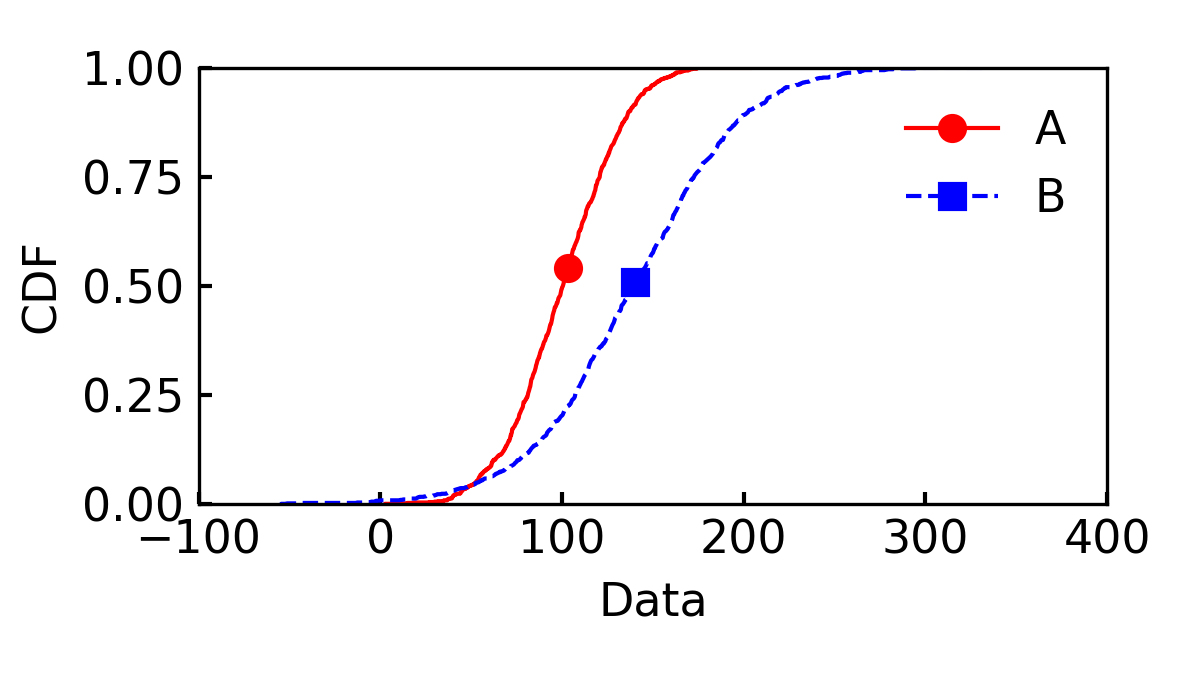
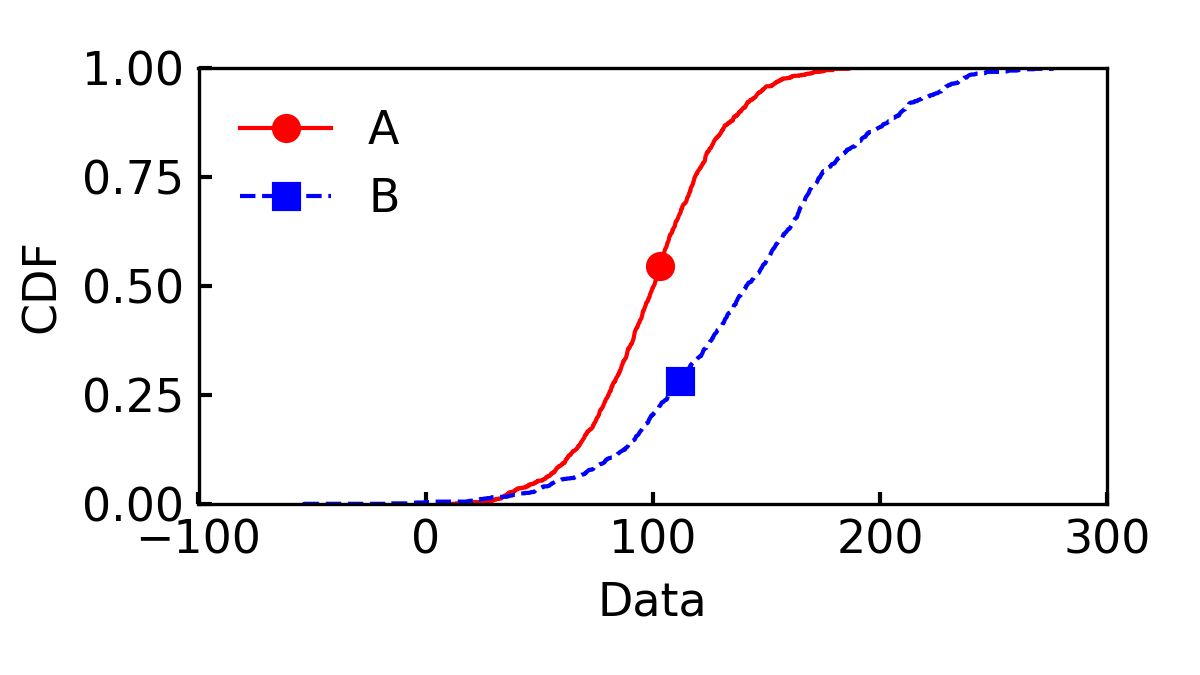
added CCDF

diff --git a/fastplot/__init__.py b/fastplot/__init__.py
@@ -38,7 +38,7 @@ def plot(data, path, mode = 'line',
          xtick_direction = 'in', xtick_width = 1, xtick_length = 3, ytick_direction = 'in', ytick_width = 1, ytick_length = 3, 
          legend = False, legend_loc = 'best', legend_ncol = 1, legend_fontsize = 'medium', legend_border = False, legend_frameon = True, legend_fancybox = False, legend_alpha=1.0, legend_args = {},
          linewidth = 1, boxplot_sym='', boxplot_whis=[5,95], timeseries_format='%Y/%m/%d', bars_width=0.6,
-         callback = None, timeseries_stacked_right_legend_order=True ):
+         callback = None, timeseries_stacked_right_legend_order=True, CDF_complementary=False ):
 
     # 1. Create and configure plot visual style
     mpl.rcParams.update(mpl.rcParamsDefault)
@@ -87,18 +87,24 @@ def plot(data, path, mode = 'line',
         e = ECDF(s)
         if xscale == 'log':
             x = np.logspace(np.log10(min(s)), np.log10(max(s)), NUM_BIN_CDF )
-            y = e(x)
+            if CDF_complementary:
+                y = 1-e(x)
+            else:
+                y = e(x)
         else:
-            x = np.linspace(min(s), max(s), NUM_BIN_CDF )
-            y = e(x)
-            # Fix initial point
-            x = np.concatenate( (np.array([min(s)]), x) )
-            y = np.concatenate( (np.array([0]), y) )
+            x = np.linspace(min(s), max(s), NUM_BIN_CDF )  
+            if CDF_complementary:
+                y = 1-e(x)
+                x = np.concatenate( (np.array([min(s)]), x) )
+                y = np.concatenate( (np.array([1]), y) )
+            else:
+                y = e(x)
+                x = np.concatenate( (np.array([min(s)]), x) )
+                y = np.concatenate( (np.array([0]), y) )
 
-        y = e(x)
         plt.plot(x,y, linewidth = linewidth, **plot_args)
         if ylabel is None:
-            ylabel = 'CDF'
+            ylabel = 'CCDF' if CDF_complementary else "CDF"
         if ylim is None:
             ylim = (0,1)
 
@@ -107,13 +113,21 @@ def plot(data, path, mode = 'line',
             e = ECDF(s)
             if xscale == 'log':
                 x = np.logspace(np.log10(min(s)), np.log10(max(s)), NUM_BIN_CDF )
-                y = e(x)
+                if CDF_complementary:
+                    y = 1-e(x)
+                else:
+                    y = e(x)
             else:
                 x = np.linspace(min(s), max(s), NUM_BIN_CDF )  
-                y = e(x)
-                # Fix initial point
-                x = np.concatenate( (np.array([min(s)]), x) )
-                y = np.concatenate( (np.array([0]), y) )
+
+                if CDF_complementary:
+                    y = 1-e(x)
+                    x = np.concatenate( (np.array([min(s)]), x) )
+                    y = np.concatenate( (np.array([1]), y) )
+                else:
+                    y = e(x)
+                    x = np.concatenate( (np.array([min(s)]), x) )
+                    y = np.concatenate( (np.array([0]), y) )
 
             plt.plot(x,y, label=s_name, linewidth = linewidth, **plot_args)
 

diff --git a/examples/plot_example.py b/examples/plot_example.py
@@ -28,6 +28,9 @@ fastplot.plot(np.random.normal(100, 30, 1000), 'examples/3_CDF.png', mode='CDF',
               xlabel = 'Data', style='latex')
 
 
+fastplot.plot(np.random.normal(100, 30, 1000), 'examples/3b_CCDF.png', mode='CDF', 
+              CDF_complementary=True, xlabel = 'Data', style='latex')
+
 
 data = [ ('A', np.random.normal(100, 30, 1000)), ('B', np.random.normal(140, 50, 1000)) ]
 plot_args={"markevery": [500]}

diff --git a/setup.py b/setup.py
@@ -22,3 +22,6 @@ setup(
 # Upload on pip with:
 # python setup.py sdist
 # twine upload dist/*
+
+# Install locally with:
+# sudo python3 setup.py install

diff --git a/README.md b/README.md
@@ -60,7 +60,7 @@ The most important arguments are:
 The modes are the type of plots fastplot allows to use. Some are simple (just a line), other are more advanced (bars, etc.).
 * `line`: plot a simple line. `data` must be a two-sized tuple of lists, for x and y. E.g., ([x1,x2,x3],[y1,y2,y3])
 * `line_multi`: plot multiple lines. Data must have the form [ (line1, ([x1,x2], [y1,y2])), (line2, ([x1,x2], [y1,y2]) ) ]. The names `line1` and `line2` are put in the legend.
-* `CDF`: plot a CDF given the samples. `data` must be a list of scalars.
+* `CDF`: plot a CDF given the samples. `data` must be a list of scalars. Note: if your CDF is too coarse grained, you can increase the resolution increasing `fastplot.NUM_BIN_CDF`.
 * `CDF_multi`: plot many CDFs given the samples. `data` must be a list of two-sized tuples like (name, [samples]). `name` is used in the legend.
 * `boxplot`: plota boxplot given the samples. `data` must be a list of two-sized tuples like (name, [samples]). `name` is used in the xticks labels.
 * `timeseries`: plot a time series. `data` must be a pandas series, with a DateTime index.
@@ -140,7 +140,7 @@ This arguments are specific for some `modes`.
 * `bars_width`: width of bars when bars are plotted. Default `0.6`
 * `callback`: function to call instead of plotting, when `mode=callback`
 * `timeseries_stacked_right_legend_order`: for `timeseries_stacked`, plot legend in the same order as colors are shown in the plot. Default is `True`.
-
+* `CDF_complementary`: for `CDF` and `CDF_multi`, plot complementary CDF instead of the plain one. Default is `False`.
 
  ## Cyclers
 
@@ -184,6 +184,15 @@ fastplot.plot(np.random.normal(100, 30, 1000), 'examples/3_CDF.png', mode='CDF',
               xlabel = 'Data', style='latex')
 ```
 <img src="https://github.com/marty90/fastplot/raw/master/examples/3_CDF.png"  height="200">
+
+
+**CDF complementary**
+```
+fastplot.plot(np.random.normal(100, 30, 1000), 'examples/3b_CCDF.png', mode='CDF', 
+              CDF_complementary=True, xlabel = 'Data', style='latex')
+```
+<img src="https://github.com/marty90/fastplot/raw/master/examples/3b_CCDF.png"  height="200">
+
 
 
 **CDF_multi**
